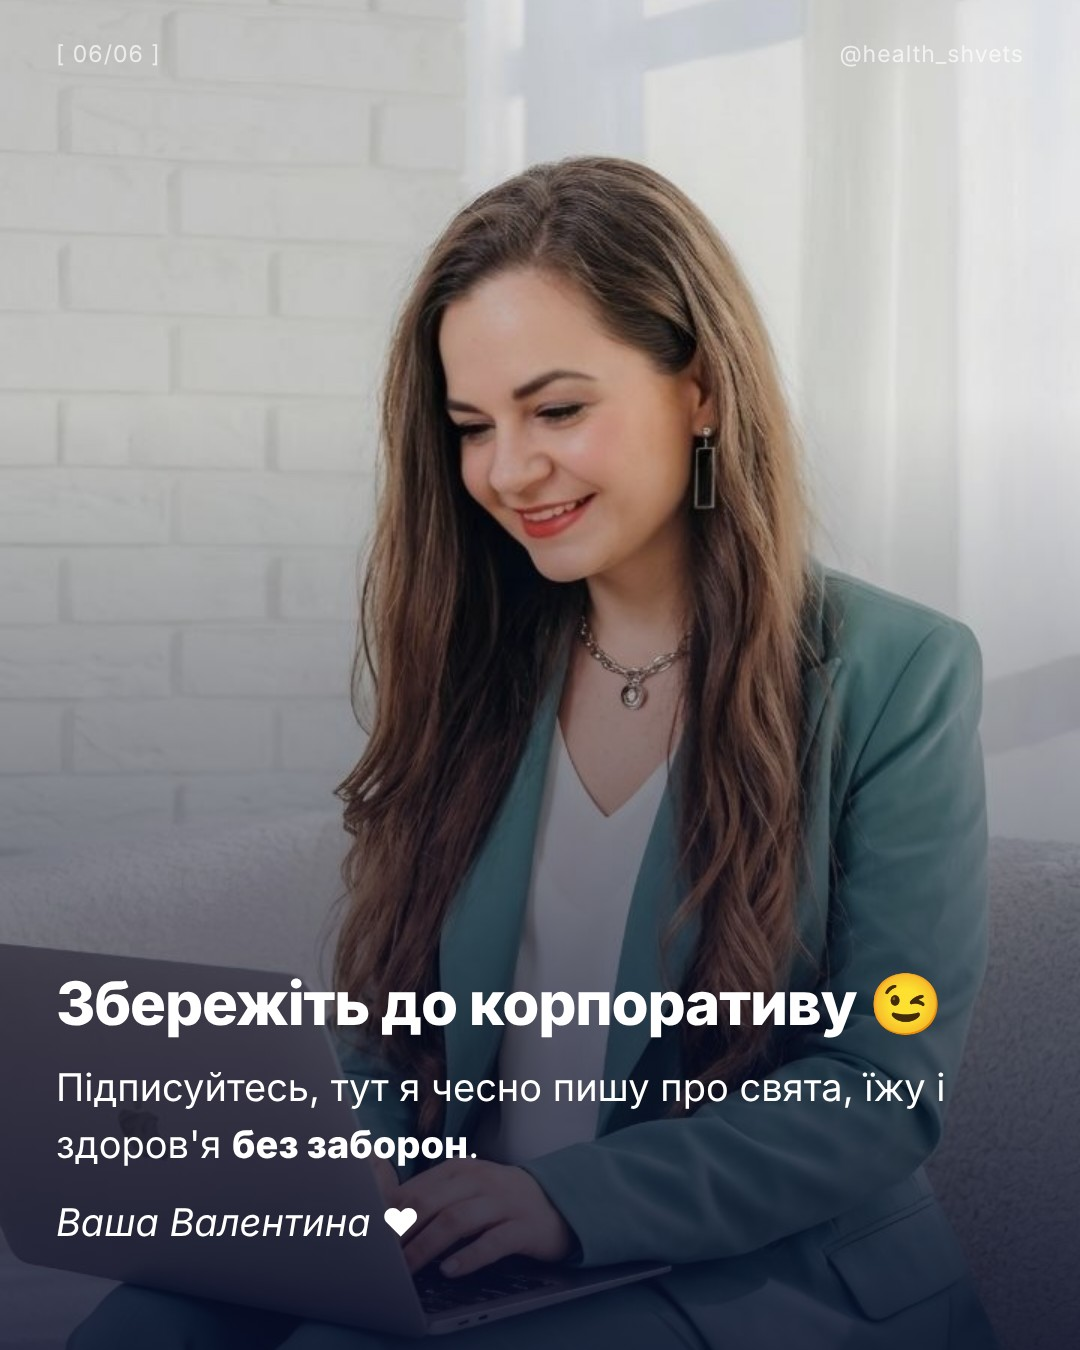
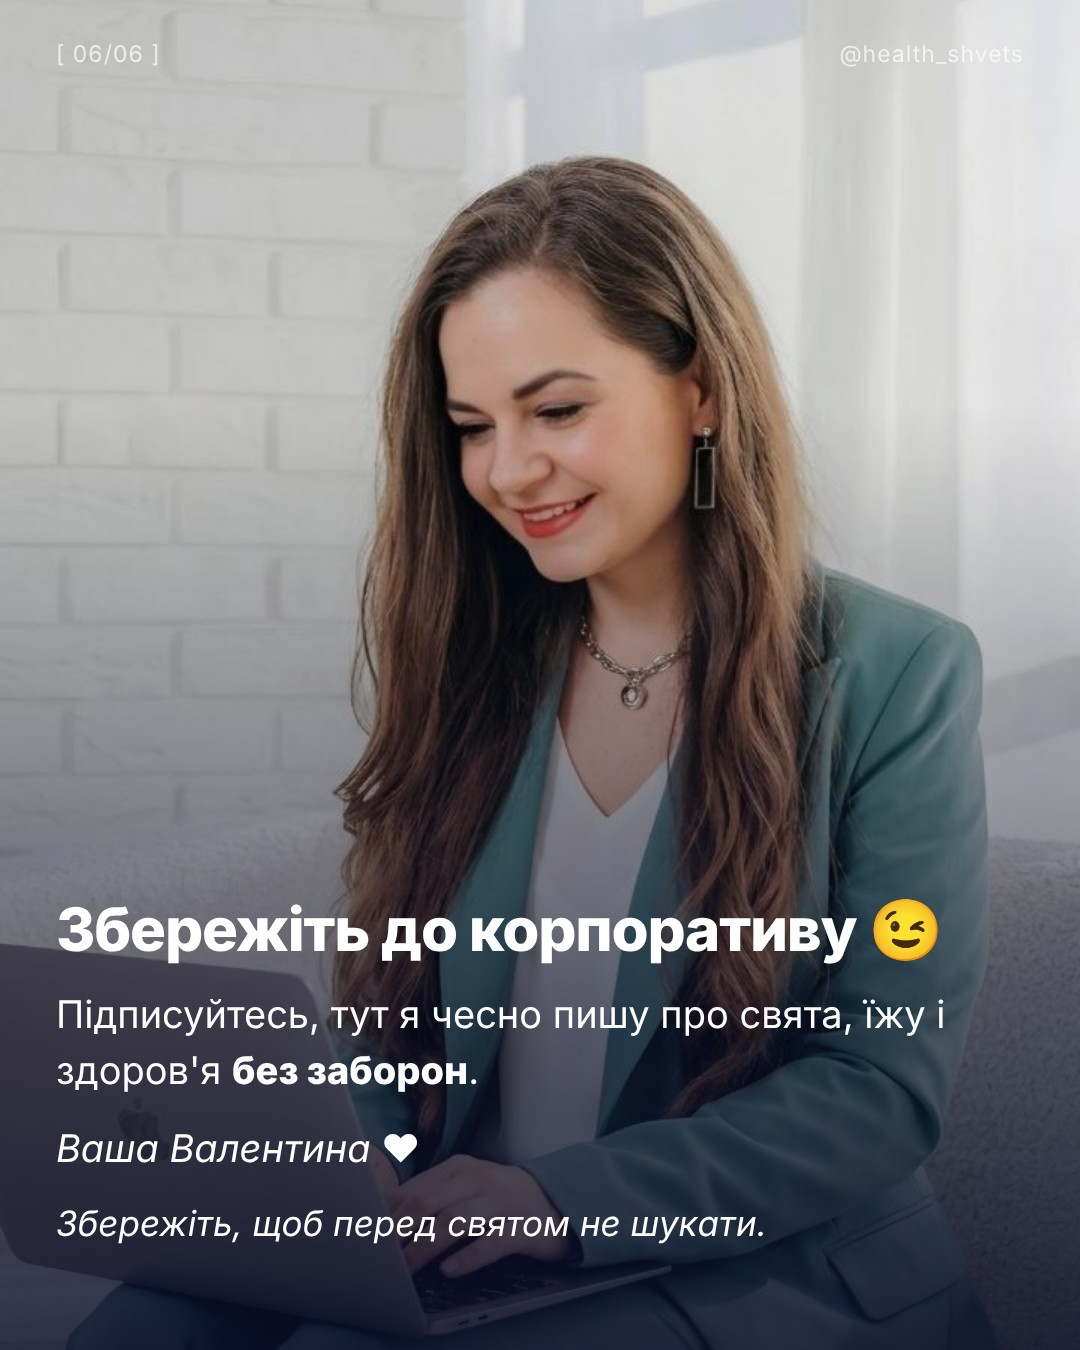
Каруселі 7-10.12 повноцінні
Claude-Session: https://claude.ai/code/session_01VzrYNc44ZAszRsGLiFGcPN

Changed region(s): [[0.0306, 0.6533, 0.8861, 0.9333], [0.7639, 0.8089, 0.7944, 0.84]]

diff --git a/tools/posts2/extra_data.py b/tools/posts2/extra_data.py
@@ -49,3 +49,36 @@ X["f1"][2] = P("<i>Знайома картина: тост з шоколадно
 X["f1"][5] = P("<b>Спробуйте сьогодні:</b> візьміть з полиці 3 продукти, які купуєте дитині, і прочитайте перші три інгредієнти. Відповідь часто дивує.")
 X["f4"][2] = P("<i>З нашим здоров'ям часто робимо те саме, просто не помічаємо.</i>")
 X["f6"][2] = P("<i>Знайоме відчуття, коли перед дзеркалом вирішуєте не що вдягнути, а скільки шарів тоналки нанести?</i>")
+
+# ===== 7-10.12 =====
+X["g5"] = {
+    3: P("<i>Наприклад, що ви їсте на сніданок, як спите, коли буває здуття.</i> Саме з таких дрібниць складається картина, яку не видно з одного аналізу."),
+    4: P("<b>Аналізи я читаю разом</b>, а не кожен окремо, і порівнюю з вашими симптомами. Так видно зв'язки, які легко пропустити."),
+}
+X["g6"] = {
+    3: P("<i>Особливо коли на пакеті намальовані апельсини і написано «100% натуральний».</i>"),
+    4: P("<b>Одна склянка соку</b> це кілька фруктів, які ви навряд чи з'їли б за раз. Тому й цукру в ній більше, ніж здається."),
+    6: P("<b>Що робити:</b> замість фрешу з'їсти цілий фрукт, а сік, якщо дуже хочеться, пити разом з їжею і зрідка."),
+}
+X["g7"] = {4: P("<i>Без голодування і без дорогих баночок:</i> маленькі зміни щодня, які складаються в результат.")}
+R["g8"] = {2: [("Дочитайте, у кінці буде дуже практичне.", "Знайомо?")]}
+X["g8"] = {3: P("<b>Як це робити:</b> кладіть новий продукт поруч з улюбленим, пропонуйте його багато разів без вмовлянь і їжте його разом з дитиною. <i>Дитина вчиться з вашої тарілки, а не з ваших слів.</i>")}
+X["g10"] = {
+    2: P("<i>Кожен рецепт з мого збірника, перевірений на моїй родині.</i>"),
+    3: P("<b>І це тільки перші дев'ять днів.</b> Далі десерти, святкові гарячі страви і меню на Святвечір."),
+    5: P("<i>Приєднатися можна будь-коли, навіть у середині грудня.</i>"),
+}
+X["g11"] = {
+    3: P("<i>Тобто якщо лягаєте о 23:00, останній келих о 19:00.</i> Тоді зранку прокинетесь відпочилою, а не розбитою."),
+    4: P("<b>Простий спосіб:</b> поставте склянку води поруч з келихом і допивайте її до наступного тосту."),
+    5: P("<i>Кава зранку після вечірки здається порятунком, але зневоднює ще більше.</i> Краще вода, легкий сніданок і прогулянка."),
+    6: P("<i>Збережіть, щоб перед святом не шукати.</i>"),
+}
+X["g12"] = {
+    2: P("<i>Тобто фразу, в яку ми віримо понад сто років, популяризувала людина, якій вигідно було продавати сніданки.</i>"),
+    3: P("<b>Знайоме відчуття:</b> миска пластівців, а через годину вже голодні і тягнетеся до печива."),
+    4: P("<b>Простий тест:</b> якщо після сніданку ви голодні вже за годину-дві, справа не в тому, що ви «багато їсте», а в тому, що саме було на тарілці."),
+}
+del X["g10"][2], X["g10"][3]
+X["g8"][2] = P("<i>І ніхто не каже дитині «ти ж учора впала, більше не сідай».</i> Ми просто пробуємо ще раз.")
+X["g6"][5] = P("<i>Цілий апельсин ви з'їсте один і наїстеся, а склянку соку з трьох вип'єте за хвилину і захочете ще.</i>")
